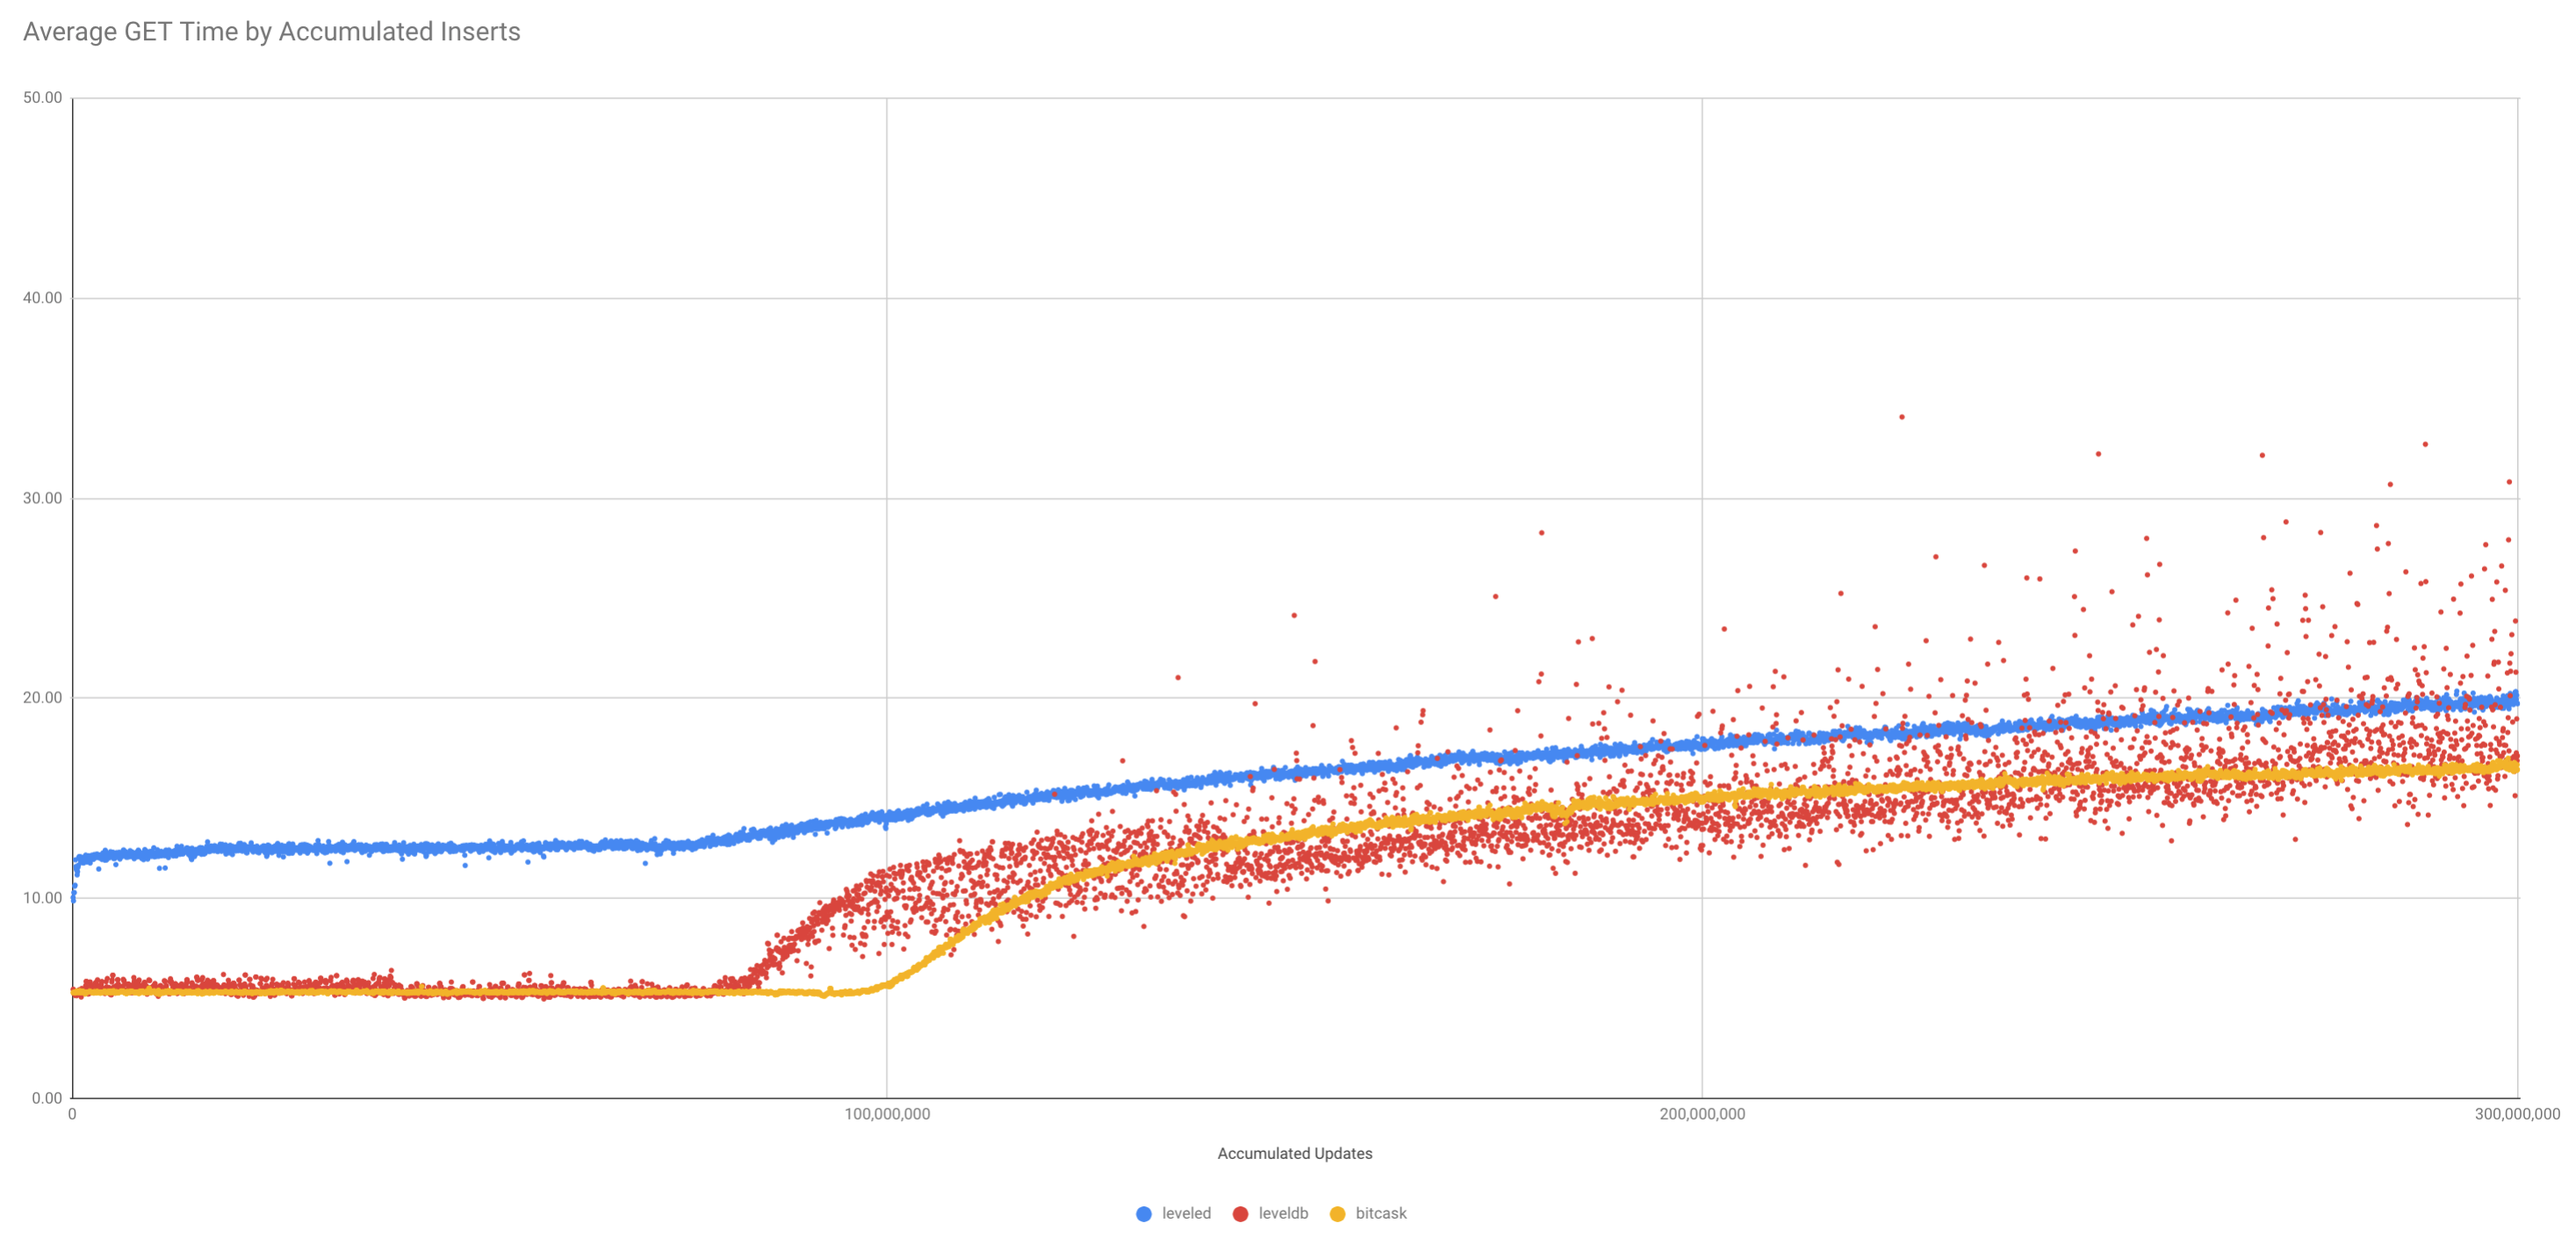
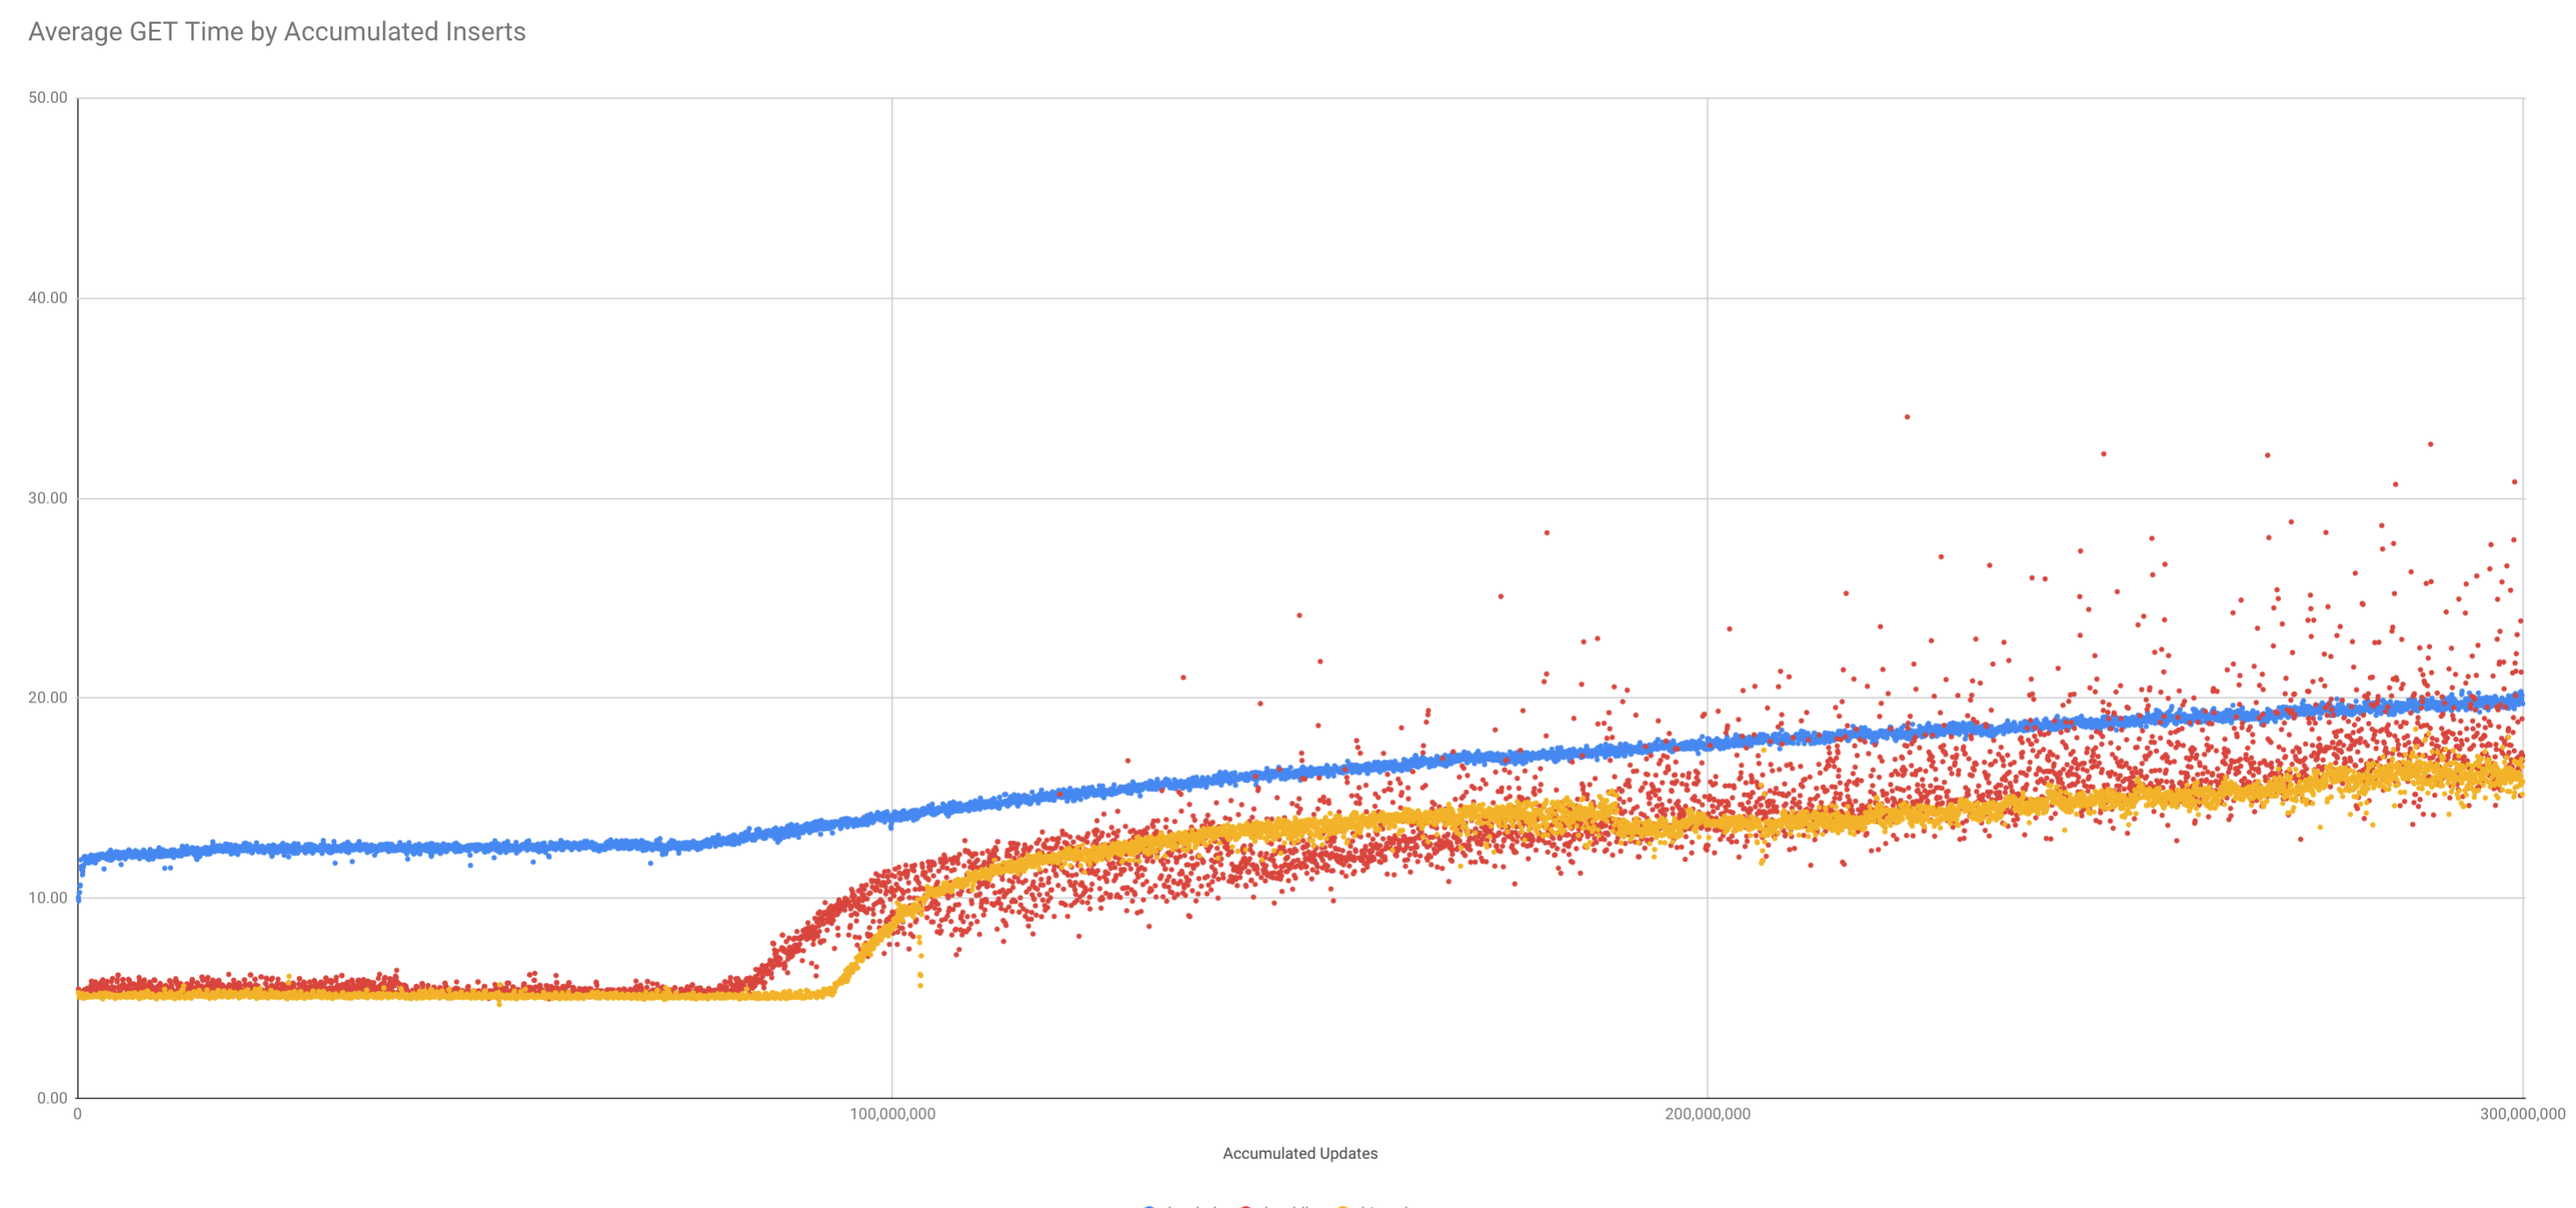
Doc update

diff --git a/doc/Release 2.9 - Choosing a Backend.md b/doc/Release 2.9 - Choosing a Backend.md
@@ -242,6 +242,7 @@ Some facts related to this comparison:
 
 - At the start of the test, whilst all data is in memory, throughput for both bitcask and leveldb is around 10% greater than for leveled.
 
+
 ### Test 5 - Immutable Objects, Insert In Order and No Sync
 
 This test is similar to Test 5, except that:
@@ -280,7 +281,7 @@ The comparison of the 99th percentile Update time by accumulated volume of updat
 
 ### Test 6 - Immutable Objects, In-Order Heavy-Write of Small Objects with No Sync
 
-This test further reduces the size of the object to just 2KB, but now makes 50% of operations PUT actions (as opposed to 25% in Tests 4 and 5).
+This test further reduces the size of the object used in Test 5 to just 2KB, but now makes 50% of operations PUT actions (as opposed to 25% in Tests 4 and 5).  The change in PUT vs GET rate is necessary in part to drive the volume of data over the cache-size within the 24-hour window of the test.
 
 ```
 {mode, max}.
@@ -309,3 +310,15 @@ The comparison of Mean GET Time by accumulated volume of updates is:
 The comparison of the 99th percentile Update time by accumulated volume of updates is:
 
 ![](img/Update99_UniqueKeyOrder2KB.png)
+
+Re-running the same test but with 200 test workers (not 100), changes the relative profile in the early stages of test:
+
+![](img/Throughput_UniqueKeyOrder2KB_200W.png)
+
+Some facts related to this comparison:
+
+- During the first period of the test, whilst the whole database sits in RAM, the mean GET and PUT response times are higher with the leveled backend, and this leads to significantly lower throughput.
+
+- By increasing the number of clients generating work in the test, the gap between the backends when not subject to resource constraints is closed.  In an under-utilised cluster, leveled can achieve roughly the same throughput - but only with greater client-side concurrency.
+
+- Having a higher proportion of PUTs reduces the relative throughput of leveldb by comparison to other backends (i.e. comparing this test to Test 5).  Even with the inputs being in key order, five-fold write amplification is still experienced with the leveldb backend by comparison to the bitcask backend.  For leveled there is 2-fold write amplification by comparison with bitcask.

diff --git a/doc/Release 2.9 - Test Summary.md b/doc/Release 2.9 - Test Summary.md
@@ -181,4 +181,8 @@ repl_rt_overload | 3 fail | 1 fail | 2 fail
 
 #### verify_conditional_postcommit
 
-Gets 999 results when expecting 1000.
+Gets 999 results when expecting 1000.  This is due to an inherent race condition in the test code itself:
+
+https://github.com/nhs-riak/riak_test/blob/develop-2.2.X-leveled-mas/tests/verify_conditional_postcommit.erl#L77-L80
+
+The get_env may fire for one PUT before the set_env has completed for another PUT - and then the count will fall 1 behind.  On failure, have confirmed through logging that all post commits have fired.  This is a test that needs fixing, but not a Riak KV code issue.

diff --git a/doc/Release 2.9 -  Task Countdown.md b/doc/Release 2.9 -  Task Countdown.md
@@ -35,7 +35,7 @@ Task | Status
 Add enterprise leveldb into the build for Riak (with hot backup feature) | complete - mas
 Creation of actual develop 2.9 branch | complete - mas
 Tag release candidate (runs from make locked-deps) | unassigned
-Code and test review of get_fsm changes | ongoing - rdb
+Code and test review of get_fsm changes | complete - rdb
 Volume test showing bitcask comparison (not just leveled vs leveldb) | ongoing - mas
 Testing in more live-like Spine environment (with larger disks) | ongoing - nhs
 Testing in more live-like SuS environment | pending - nhs
